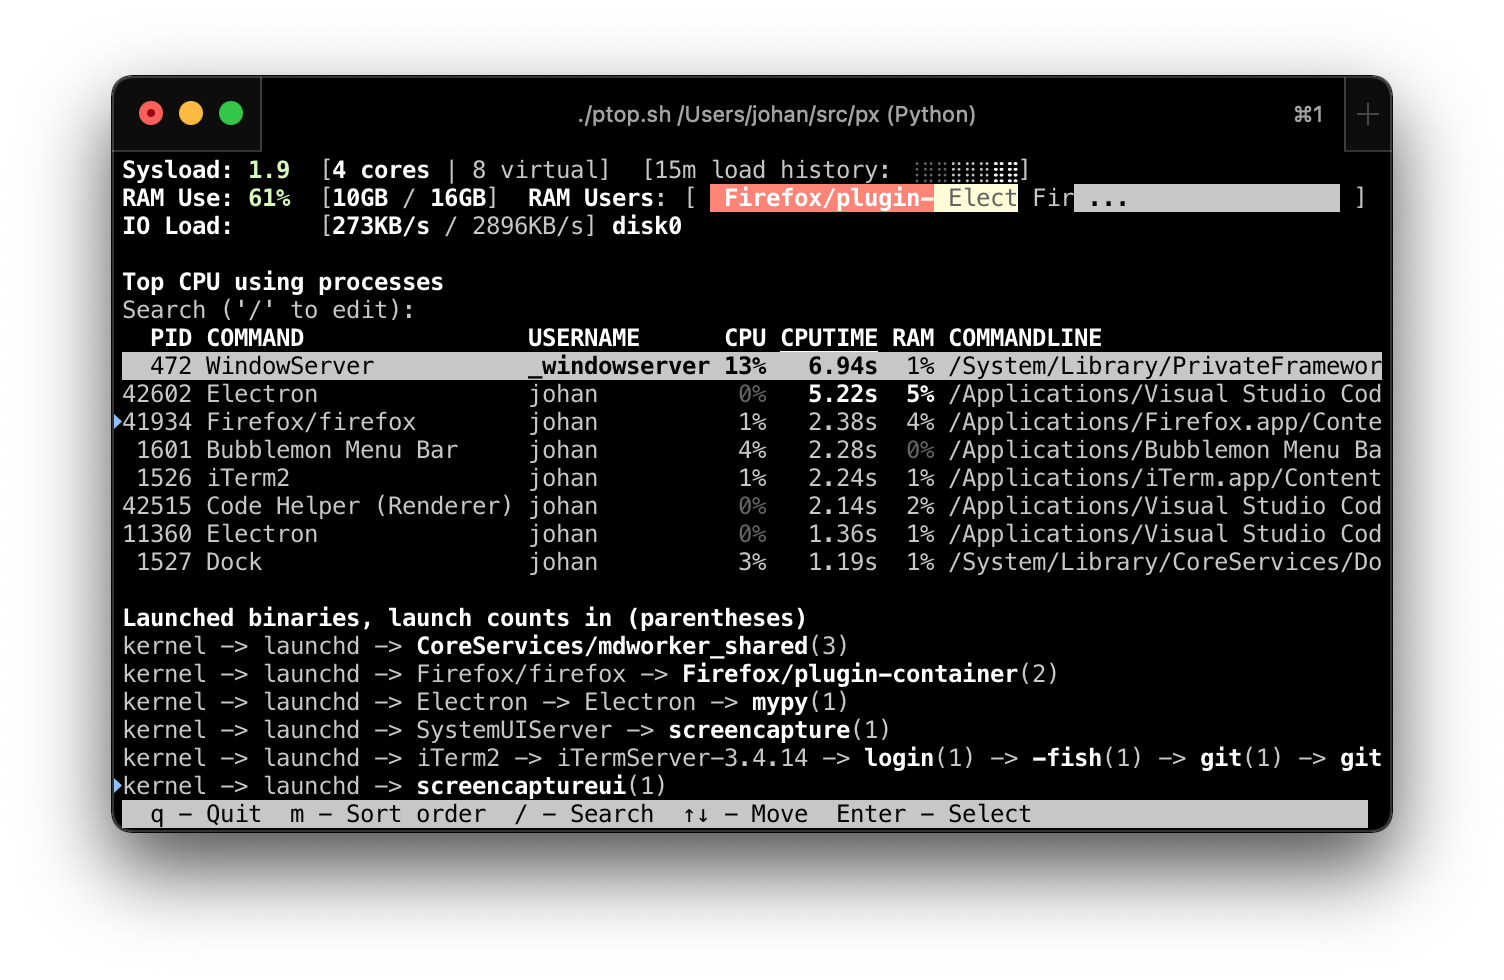
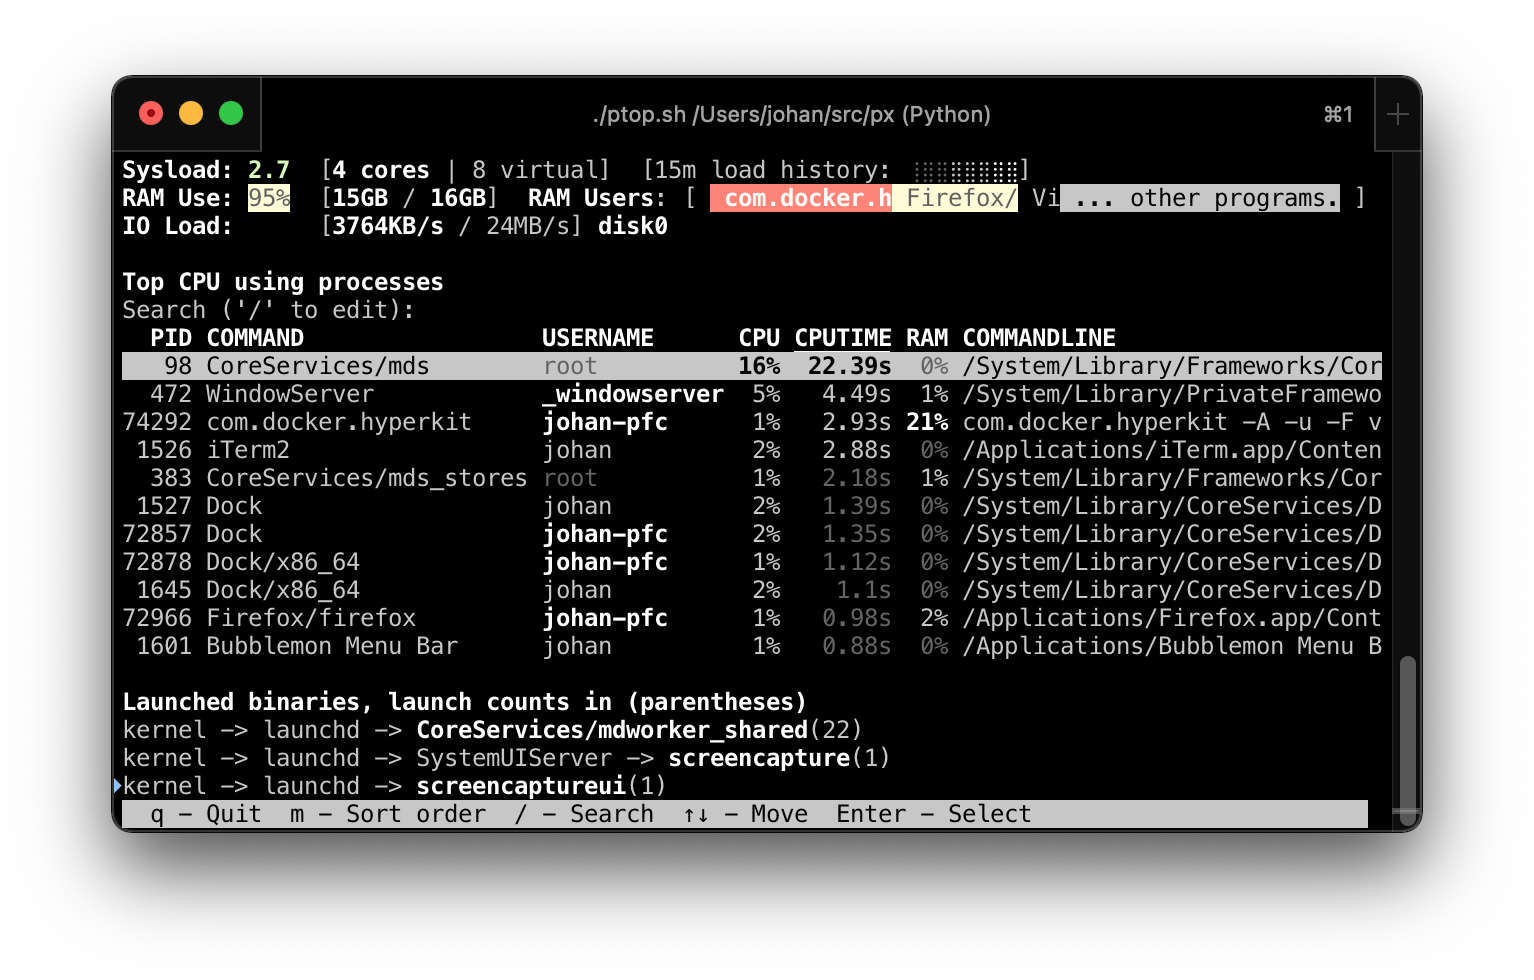
Clarify RAM bar last category
One person I showed this to thought the "..." section was free memory.

This change hopefully makes that clearer.

diff --git a/px/px_rambar.py b/px/px_rambar.py
@@ -45,7 +45,7 @@ def get_categories(all_processes):
             return_me.append(name_and_kilobytes)
         else:
             other_total_kb += name_and_kilobytes[1]
-    return_me.append(("...", other_total_kb))
+    return_me.append(("... other programs...", other_total_kb))
 
     return return_me
 
